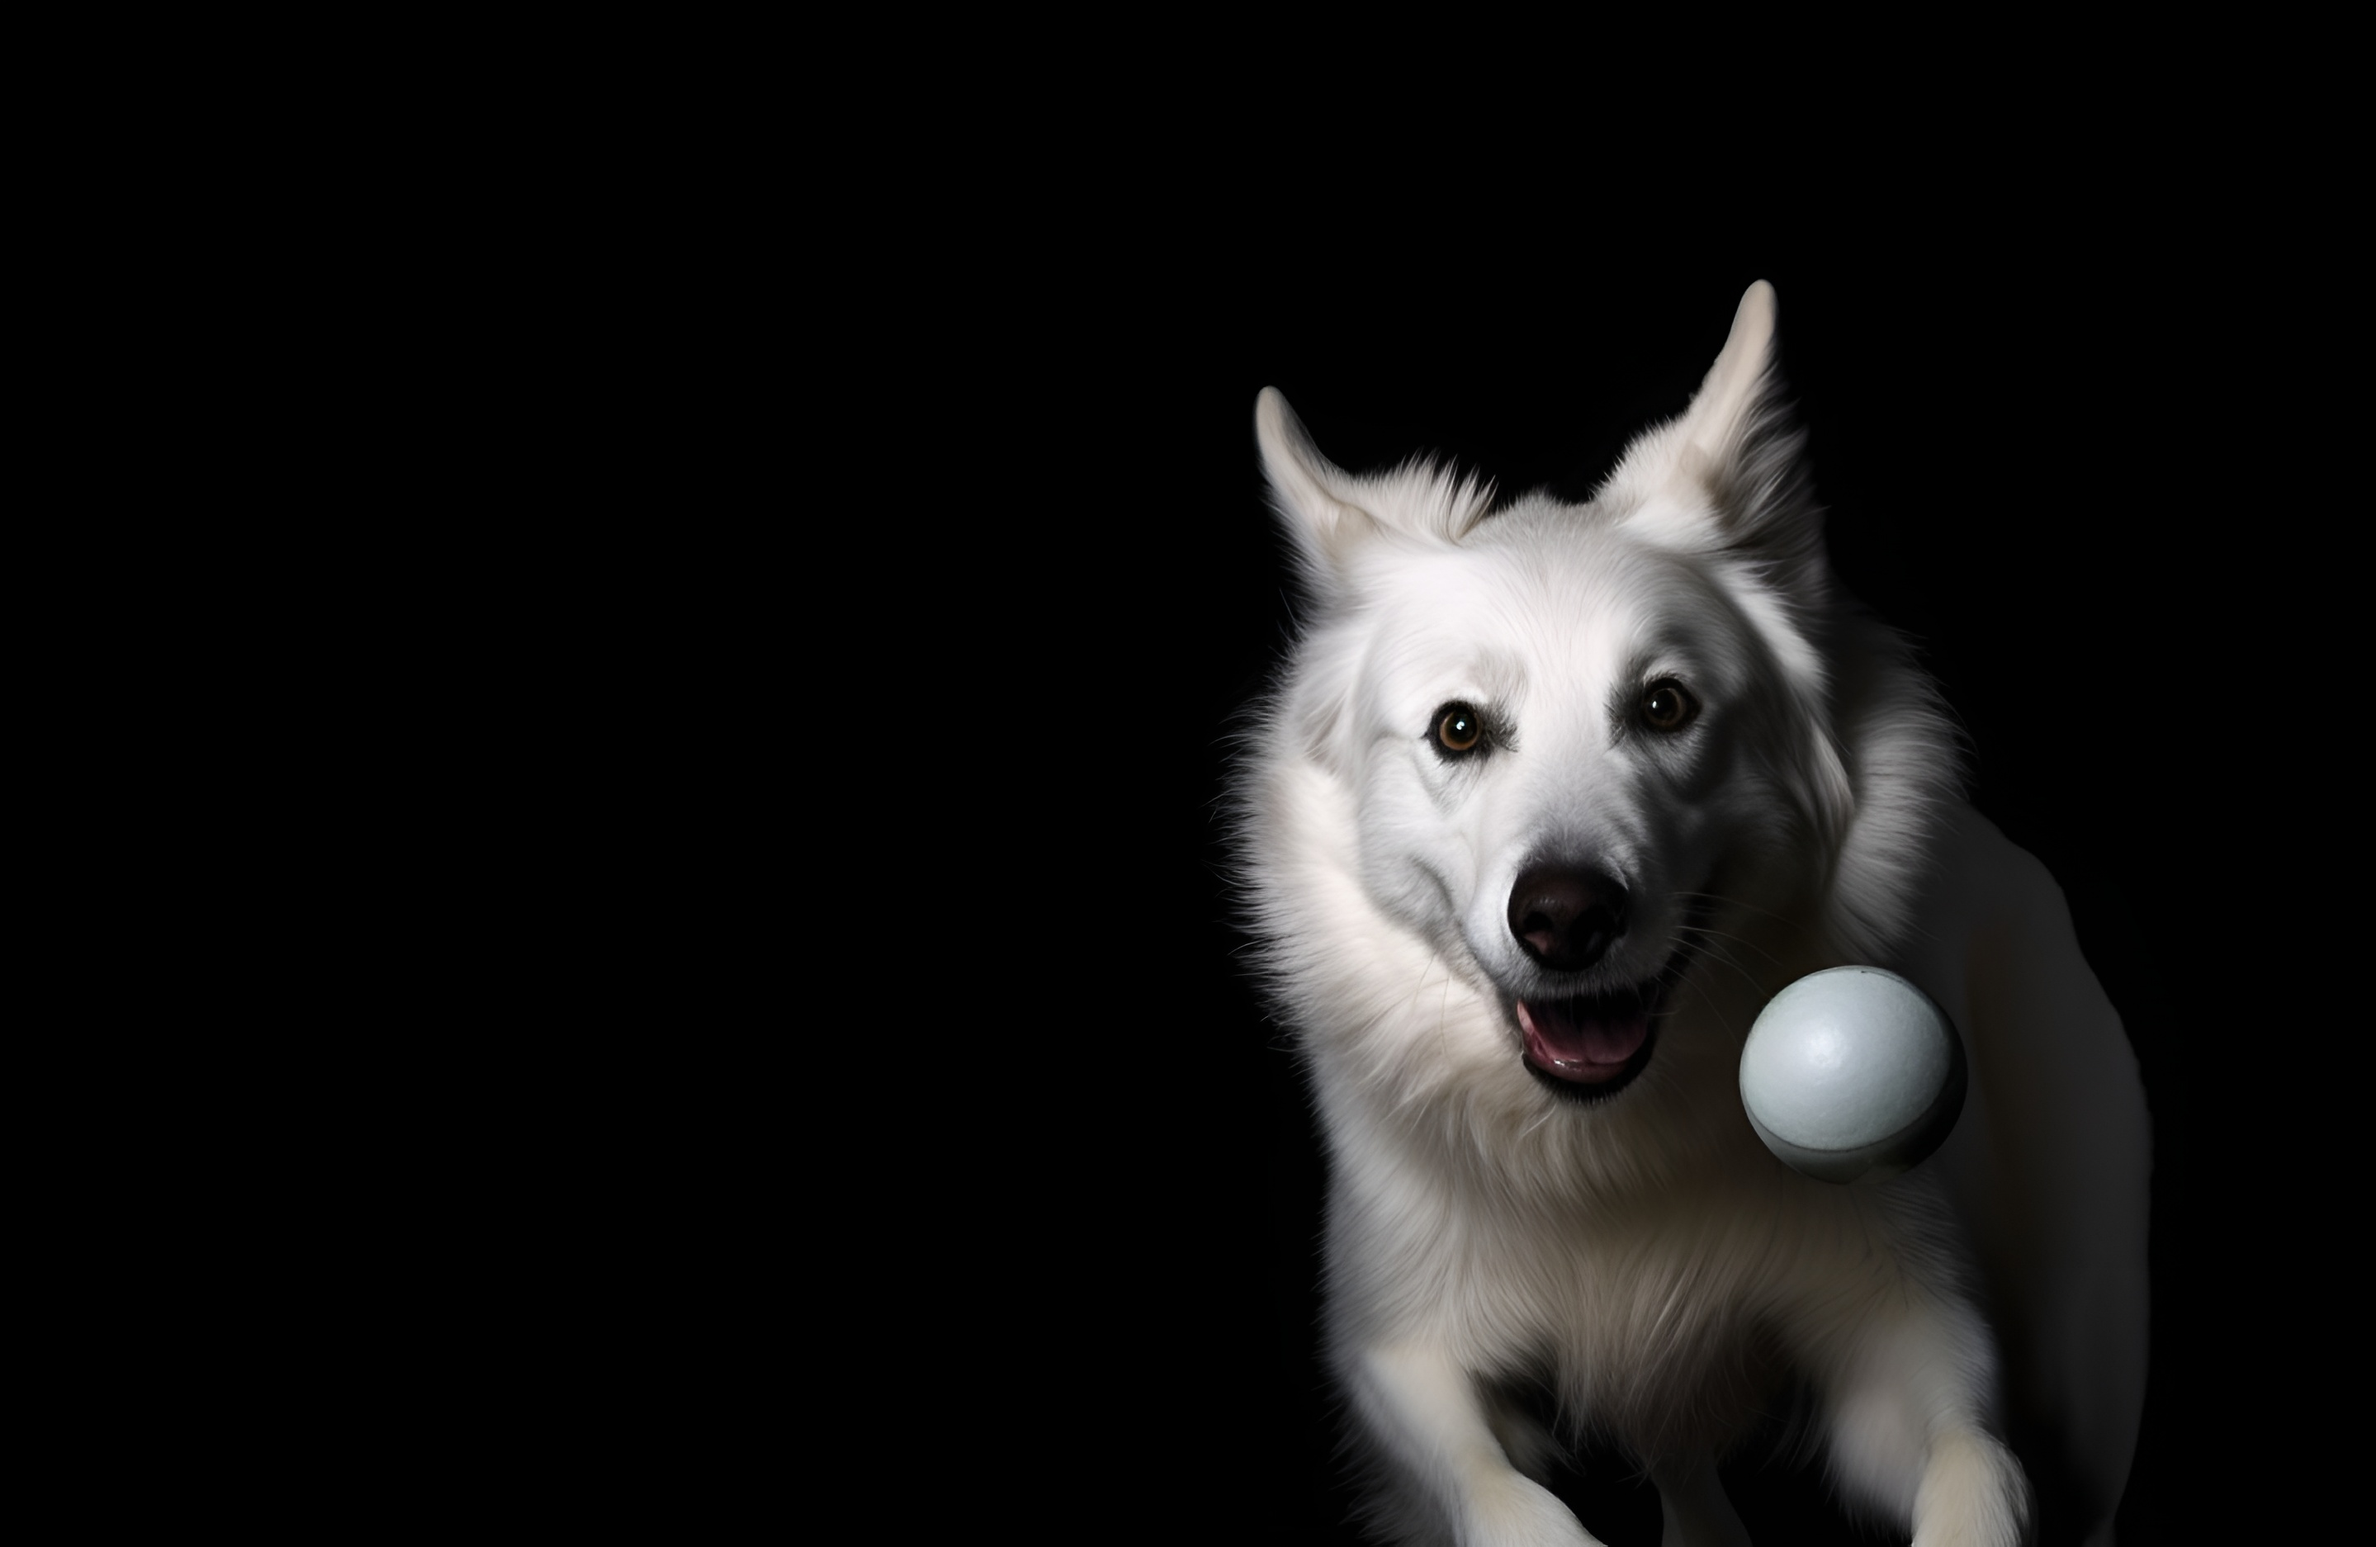
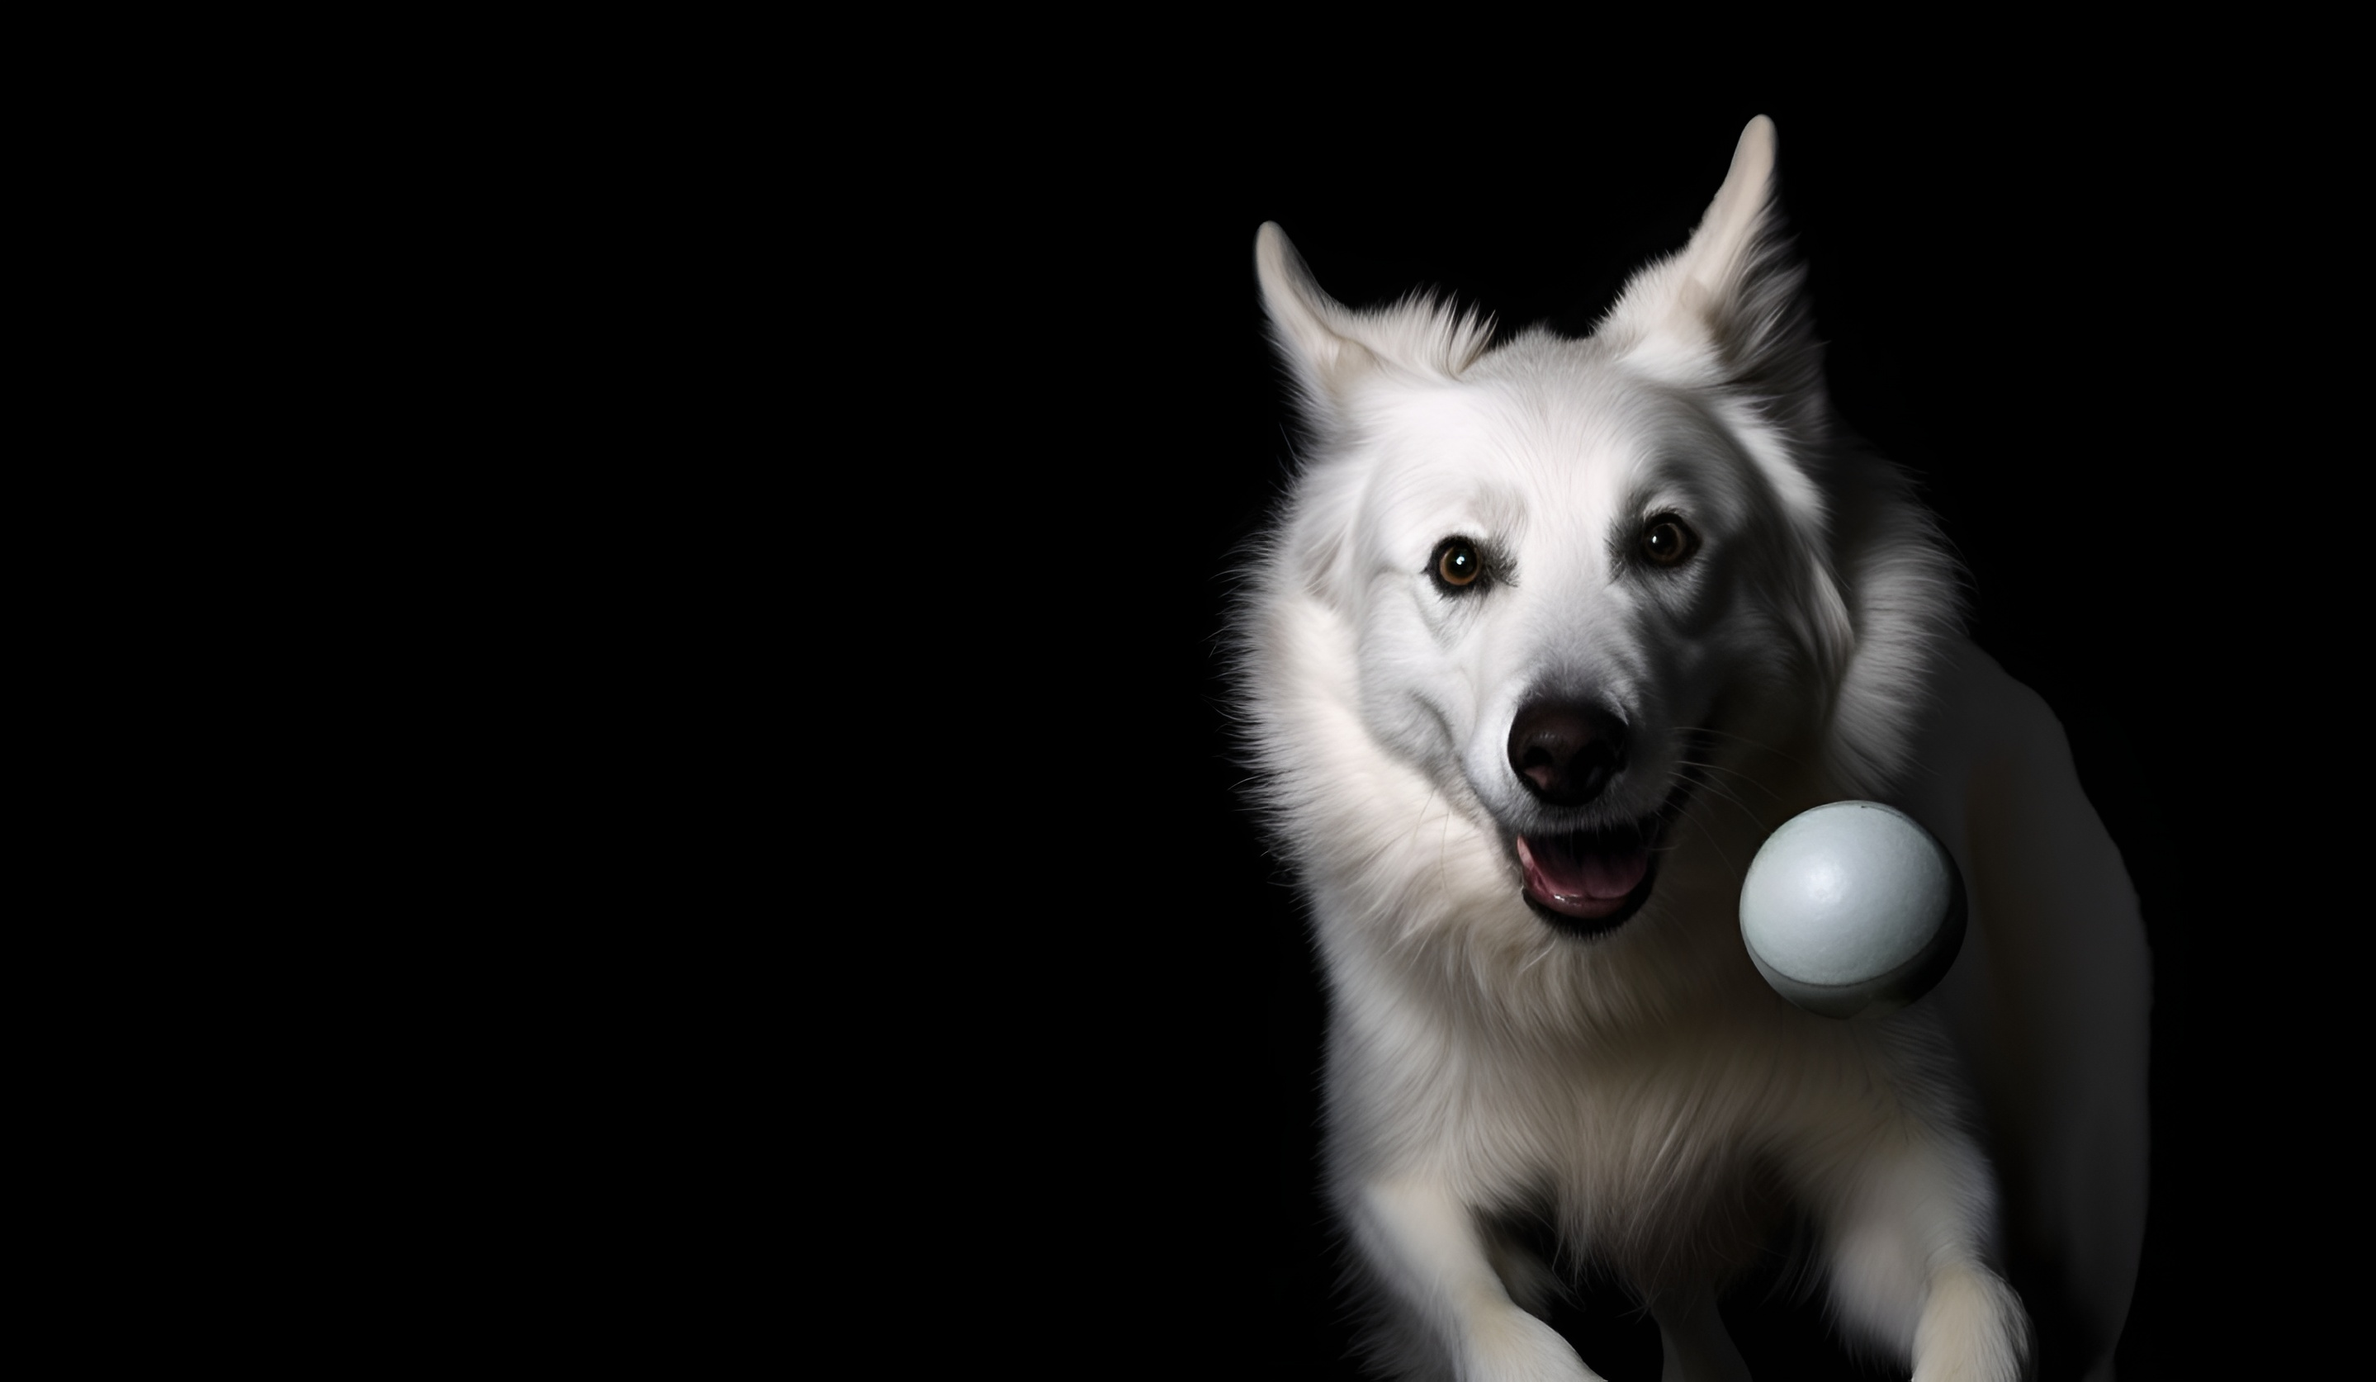
fix hero desktop images

diff --git a/pages/index.tsx b/pages/index.tsx
@@ -160,6 +160,12 @@ const Home: NextPage<ServerSideProps<typeof getStaticProps>> = ({
     if (!swiperRef.current) return;
     swiperRef.current.swiper.slideNext();
   }, []);
+
+  const swiperHeroRef = useRef<SwiperRef | null>(null);
+  const handleNextHero = useCallback(() => {
+    if (!swiperHeroRef.current) return;
+    swiperHeroRef.current.swiper.slideNext();
+  }, []);
   return (
     <article>
       <Head>
@@ -171,6 +177,7 @@ const Home: NextPage<ServerSideProps<typeof getStaticProps>> = ({
           'min-h-[calc(100vh-60px)] sm:h-[calc(100vh-90px)] sm:min-h-[calc(100vh-90px)]',
         )}>
         <Swiper
+          ref={swiperHeroRef}
           className={`pb-0 md:pb-0 lg:pb-0 md:py-0 lg:py-0 ${styles.swiperContainer}`}
           effectsEnabled={false}
           autoplay={{
@@ -186,6 +193,20 @@ const Home: NextPage<ServerSideProps<typeof getStaticProps>> = ({
           }}>
           {getHeroImages(text.heroBlock)}
         </Swiper>
+        <div
+          className={
+            'absolute right-0 opacity-0 hover:opacity-100 transition-opacity w-52 z-20 h-full cursor-pointer flex items-center justify-center'
+          }
+          onClick={handleNextHero}>
+          <svg
+            width="22"
+            height="41"
+            viewBox="0 0 22 41"
+            fill="none"
+            xmlns="http://www.w3.org/2000/svg">
+            <path d="M1 1L21 20.5L1 40" stroke="white" />
+          </svg>
+        </div>
       </div>
 
       <div

diff --git a/pages/products/[slug].tsx b/pages/products/[slug].tsx
@@ -46,6 +46,10 @@ import {
   addStockOptionData,
   getColorOptionArrayIds,
 } from '../../lib/utils/products';
+import GenericTag, {
+  getTagTypeByName,
+} from '../../components/atoms/GenericTag';
+import { useDisplayedTags } from '../../hooks/useDisplayedTags';
 
 export enum LAYOUT_ALIGNMENT {
   STANDARD = 'standard',
@@ -236,6 +240,8 @@ const ProductsPage: React.FC<ProductsPageProps> = ({
     }
   };
 
+  const displayedTags = useDisplayedTags(tags);
+
   return (
     <div>
       <Head>
@@ -254,6 +260,15 @@ const ProductsPage: React.FC<ProductsPageProps> = ({
               colorOptionId ?? '',
             )}
           />
+          {displayedTags?.map(tag => {
+            if (!tag) return null;
+            const type = getTagTypeByName(tag);
+            return type ? (
+              <GenericTag tag={type} key={tag}>
+                {tag}
+              </GenericTag>
+            ) : null;
+          })}
         </section>
         <aside className="mt-10 lg:px-14">
           <div className="px-6">

diff --git a/styles/home.module.css b/styles/home.module.css
@@ -10,11 +10,11 @@
 }
 
 .swiperContainer img {
-  @apply top-[unset];
+  @apply top-[unset] sm:max-h-[calc(100vh-90px)];
 }
 
 .swiperContainer section {
-  @apply mb-0 pt-0 pb-0 sm:pt-20 relative h-full sm:h-auto;
+  @apply mb-0 pt-0 pb-0 sm:pt-20 relative h-full;
 }
 
 .swiperContainer section a {
